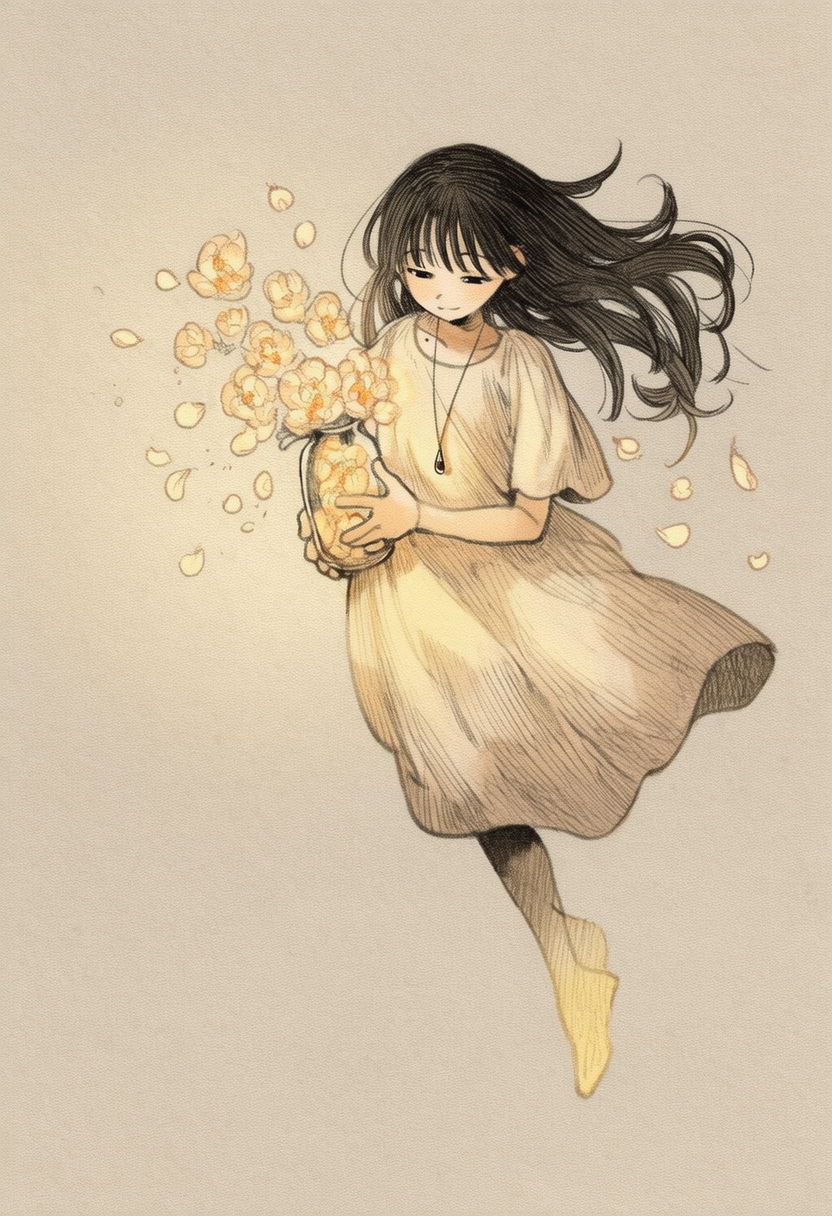
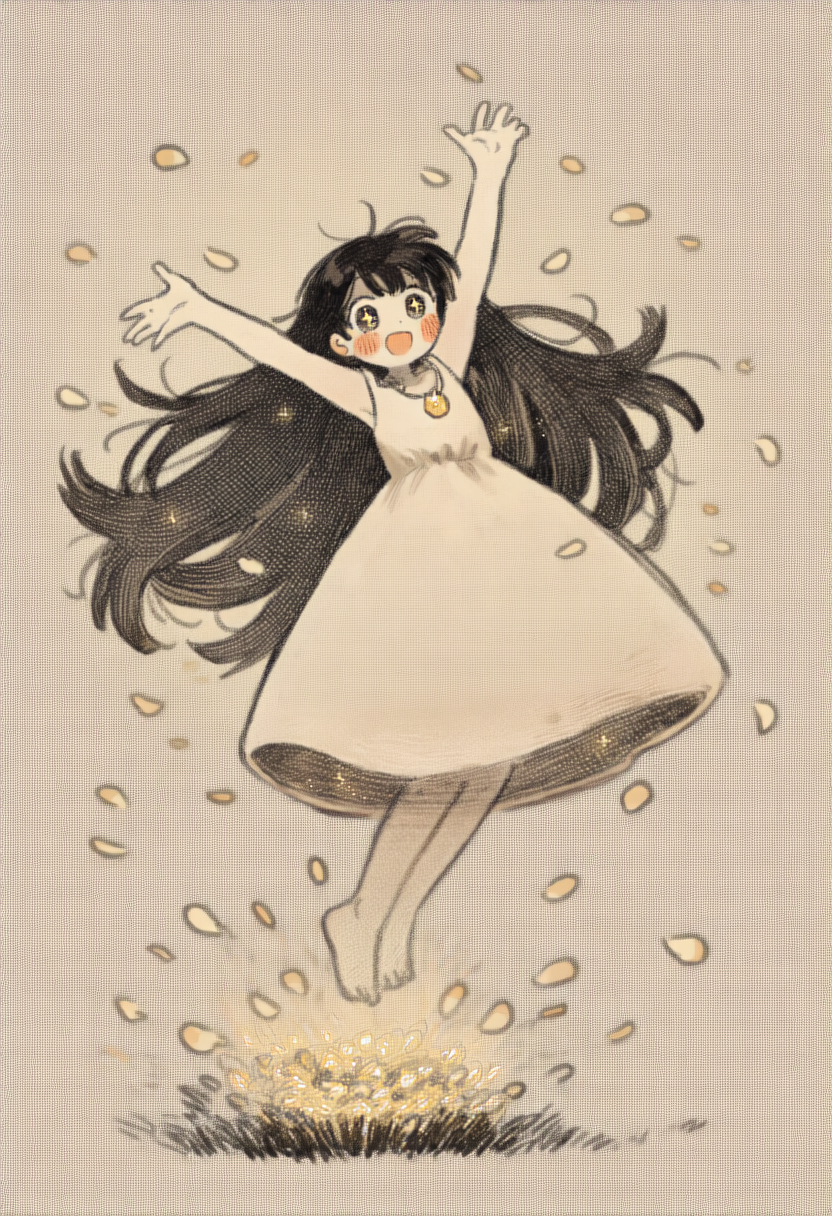
Genki redesign for Sylvia and Alice
Claude-Session: https://claude.ai/code/session_01AsD7CcnWD46sZwwufpHp7b

diff --git a/illustration/tools/characters_v4.py b/illustration/tools/characters_v4.py
@@ -18,13 +18,16 @@ NEG_V4 = ("lowres, bad anatomy, bad hands, text, error, missing fingers, extra d
           "3d, realistic, photo, anime screencap, colorful, multicolored")
 
 CHARS = {
-    "sylvia": "1girl, solo, teenage, long hair, wavy hair, messy hair, bangs, tired, light smile, determined, "
+    # 元气少女版：去掉 tired / determined，换成咧嘴笑、虎牙、呆毛、动态姿势
+    "sylvia": "1girl, solo, teenage, long hair, wavy hair, messy hair, ahoge, bangs, bright pupils, sparkling eyes, "
+              ":d, grin, fang, blush, happy, looking at viewer, leaning forward, ;d, v, "
               "1.4::orange jacket::, oversized clothes, open jacket, sleeves pushed up, headphones around neck, "
-              "bandaged hands, holding screwdriver, patch, badge, jeans, sneakers, full body, standing",
+              "bandaged hands, holding screwdriver, patch, badge, jeans, sneakers, motion lines, full body",
     "father": "1boy, solo, mature male, middle-aged, grey hair, streaked hair, short hair, glasses, facial hair, stubble, tired, serious, "
               "1.5::blue cardigan::, collared shirt, lanyard, id card, holding notebook, holding mug, milk, full body, standing",
-    "alice":  "1girl, solo, ghost, transparent, glowing, 1.4::yellow theme::, golden light, long hair, floating hair, light smile, "
-              "half-closed eyes, white dress, pendant, vase, petals, flower, floating, full body",
+    "alice":  "1girl, solo, ghost, transparent, glowing, 1.4::yellow theme::, golden light, long hair, floating hair, "
+              ":d, open mouth, blush, happy, sparkling eyes, looking at viewer, outstretched arms, arms up, "
+              "white dress, pendant, vase, petals, sparkle, floating, full body",
     "hk7":    "no humans, solo, 1.4::humanoid robot::, old, damaged, round head, one-eyed, camera, antenna, "
               "1.4::gold trim::, yellow stripes, mechanical joints, bandaged leg, sitting, holding watering can, full body",
     "ethan":  "1boy, solo, young man, short hair, messy hair, black hair, smile, open mouth, "

diff --git a/illustration/novelai-prompts.md b/illustration/novelai-prompts.md
@@ -193,9 +193,11 @@ NovelAI 的图像模型是按 Danbooru 标签训练的，所以 v4 把 v3 的英
 
 | 角色 | 版本 | Seed |
 |---|---|---|
-| 西尔维亚 | v4 | 3620746427 |
+| 西尔维亚 | v4 元气版 | 1380833547（备选 `sylvia_alt.png`：眨眼咧嘴笑版，seed 101916536；原安静版移至 `characters/v4/`，seed 3620746427） |
 | 父亲 | v4 | 3719933818 |
-| 爱丽丝 | v4 | 3234635755 |
+| 爱丽丝 | v4 元气版 | 4208501454（原安静版移至 `characters/v4/`，seed 3234635755） |
 | HK-7 | v4 | 2177387971 |
 | 伊桑 | v4 | 3293825572 |
 | 子午线 | v3（见第八节） | 1202646189 |
+
+**元气少女版（西尔维亚、爱丽丝）**：去掉 `tired`、`determined`、`half-closed eyes`，改用标签库中的 `:d`（咧嘴笑）、`;d`（单眼咧嘴笑）、`grin`、`fang`（虎牙）、`ahoge`（呆毛）、`sparkling eyes`（星星眼）、`bright pupils`、`blush`、`v`（胜利手势）、`leaning forward`、`motion lines`；爱丽丝用 `arms up`、`outstretched arms`、`sparkle`。
